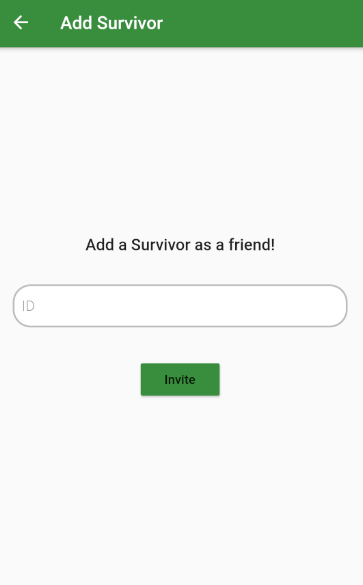
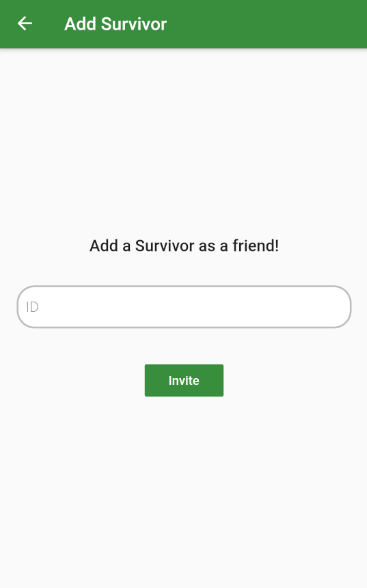
finally...

diff --git a/lib/AppScreens/AddSurvivorScreen.dart b/lib/AppScreens/AddSurvivorScreen.dart
@@ -89,7 +89,7 @@ class _AddSurvivorScreenState extends State<AddSurvivorScreen> {
             Padding(
               padding: const EdgeInsets.symmetric(
                   vertical: 15.0, horizontal: 15.0),
-              child: RaisedButton(
+              child: FlatButton(
                 color: Colors.green[700],
                 onPressed: () {
                   _setPrefs(_addFieldController.text);
@@ -100,7 +100,11 @@ class _AddSurvivorScreenState extends State<AddSurvivorScreen> {
 
                   Scaffold.of(context).showSnackBar(snackBar);
                 },
-                child: Text('Invite'),
+                child: Text('Invite',
+                  style: TextStyle(
+                  color: Colors.white,
+                  ),
+                ),
               ),
             ),
           ],
